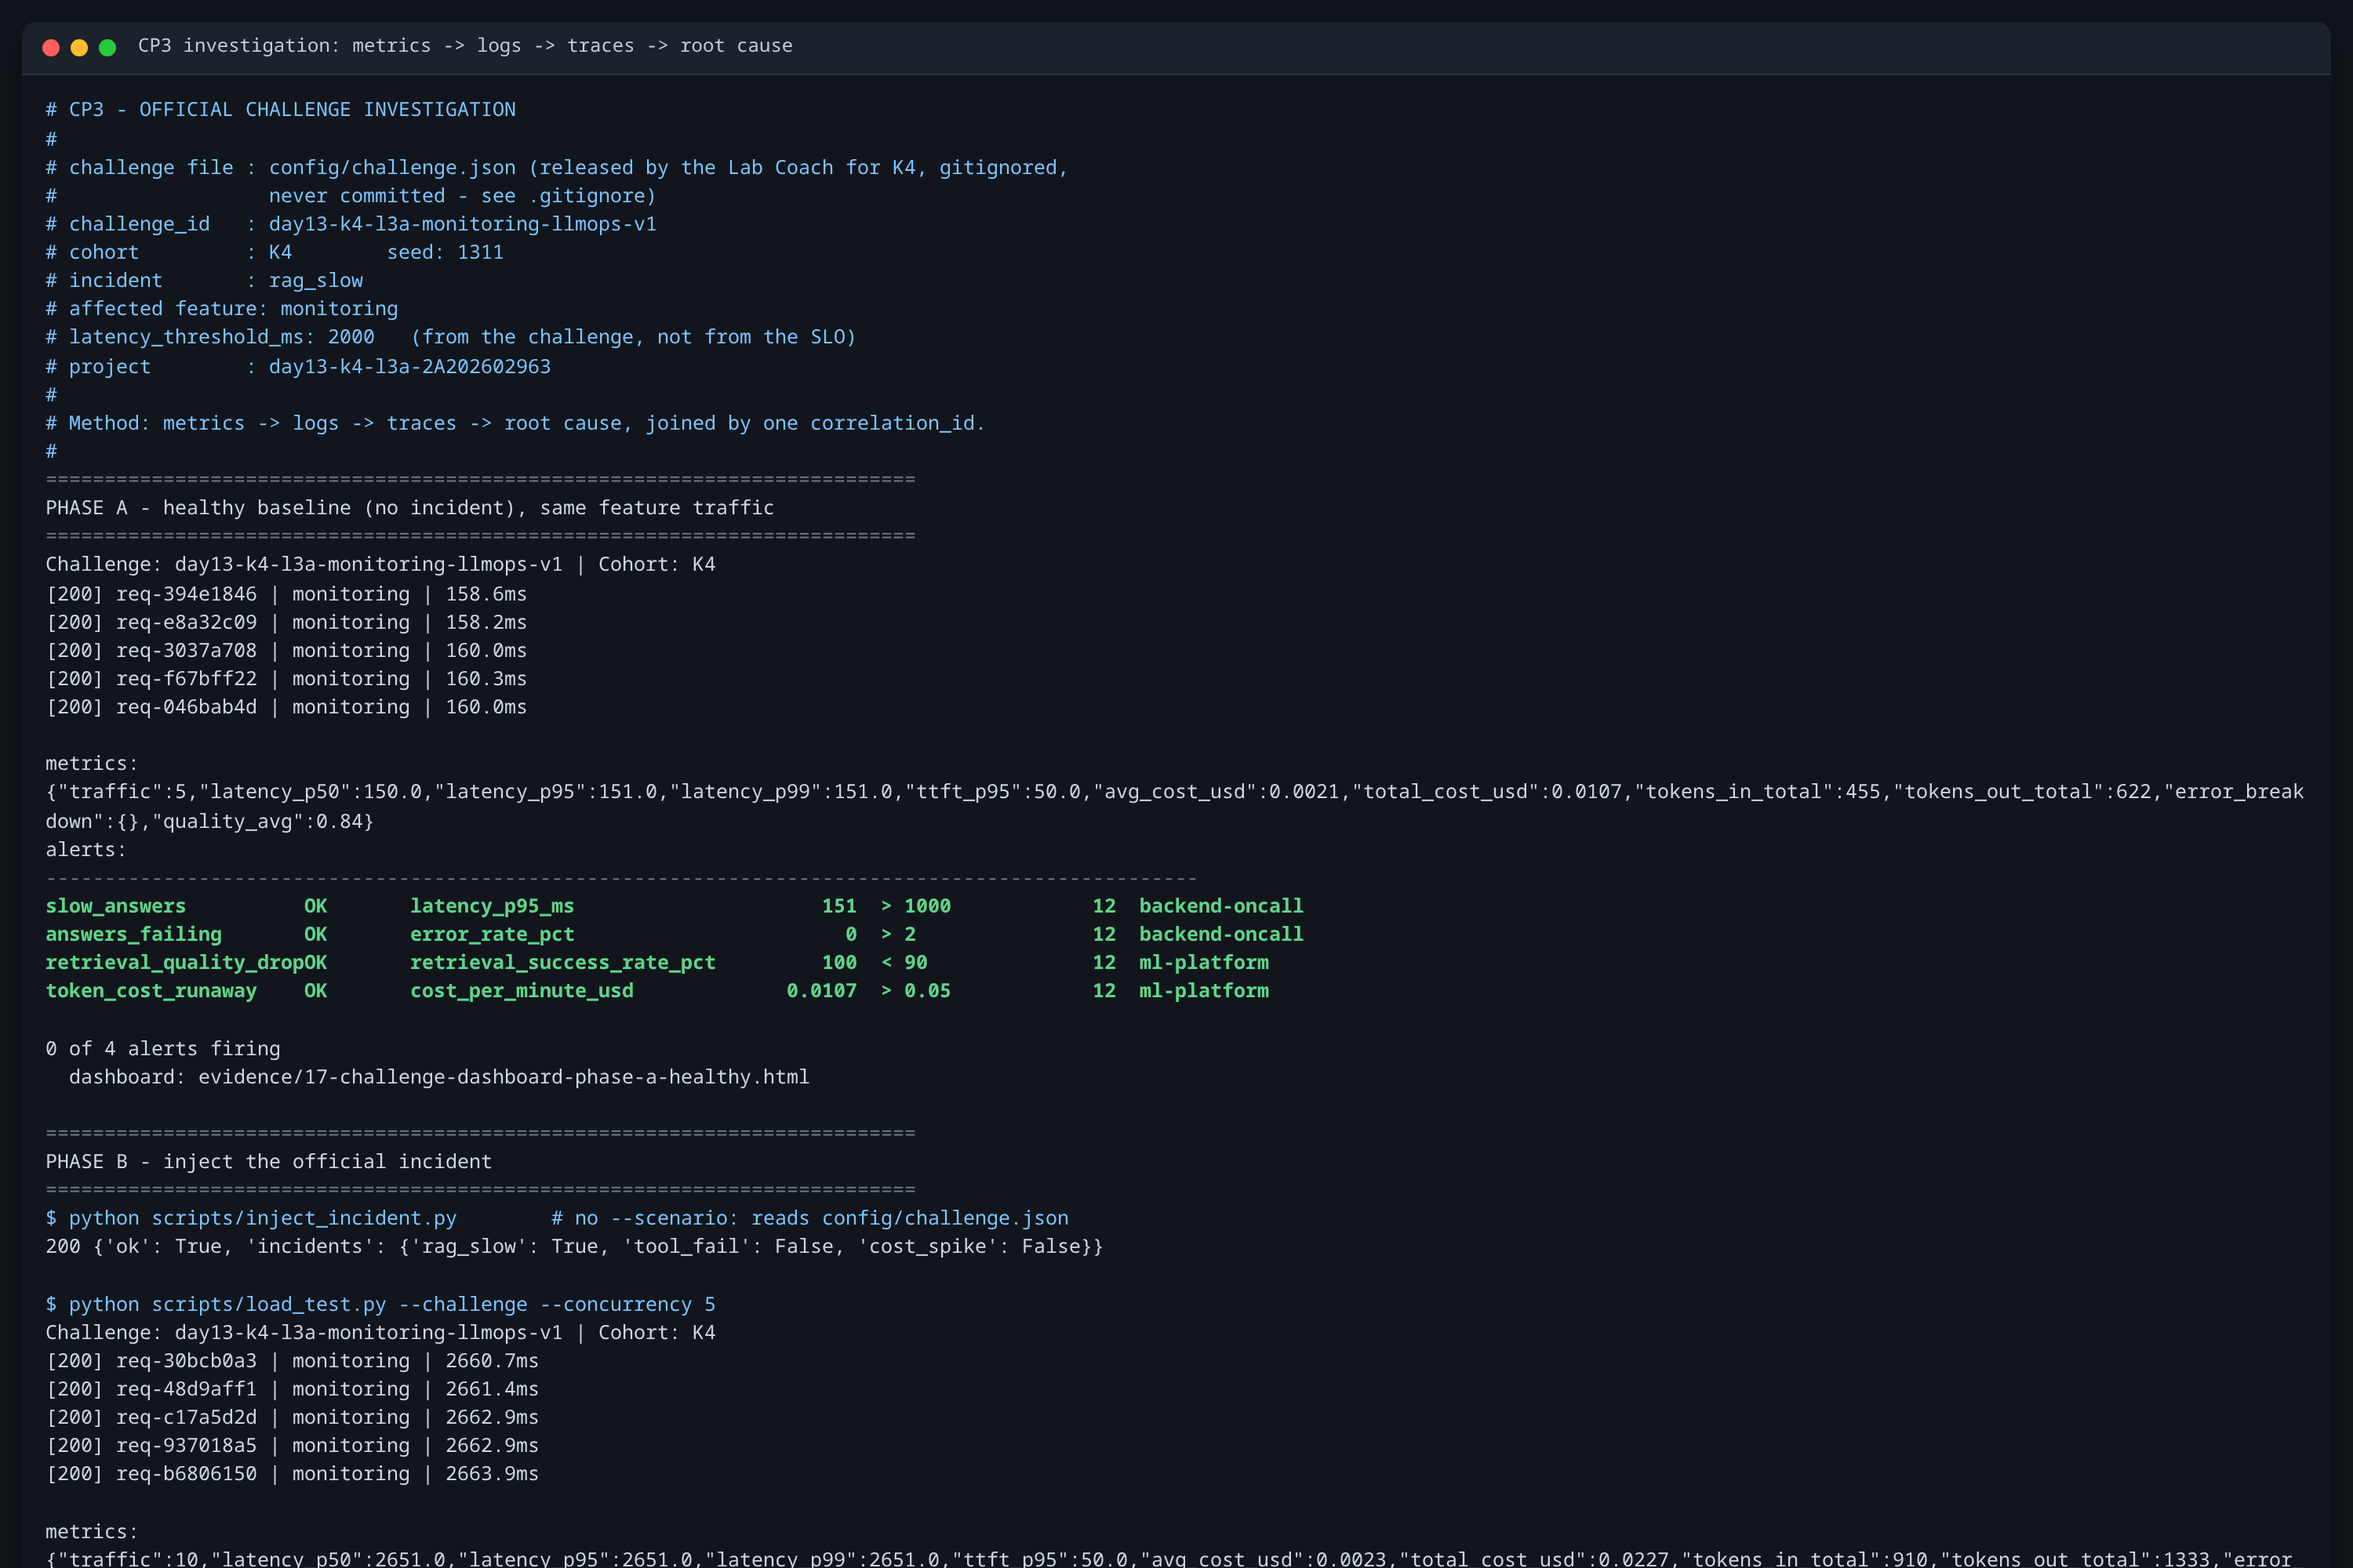
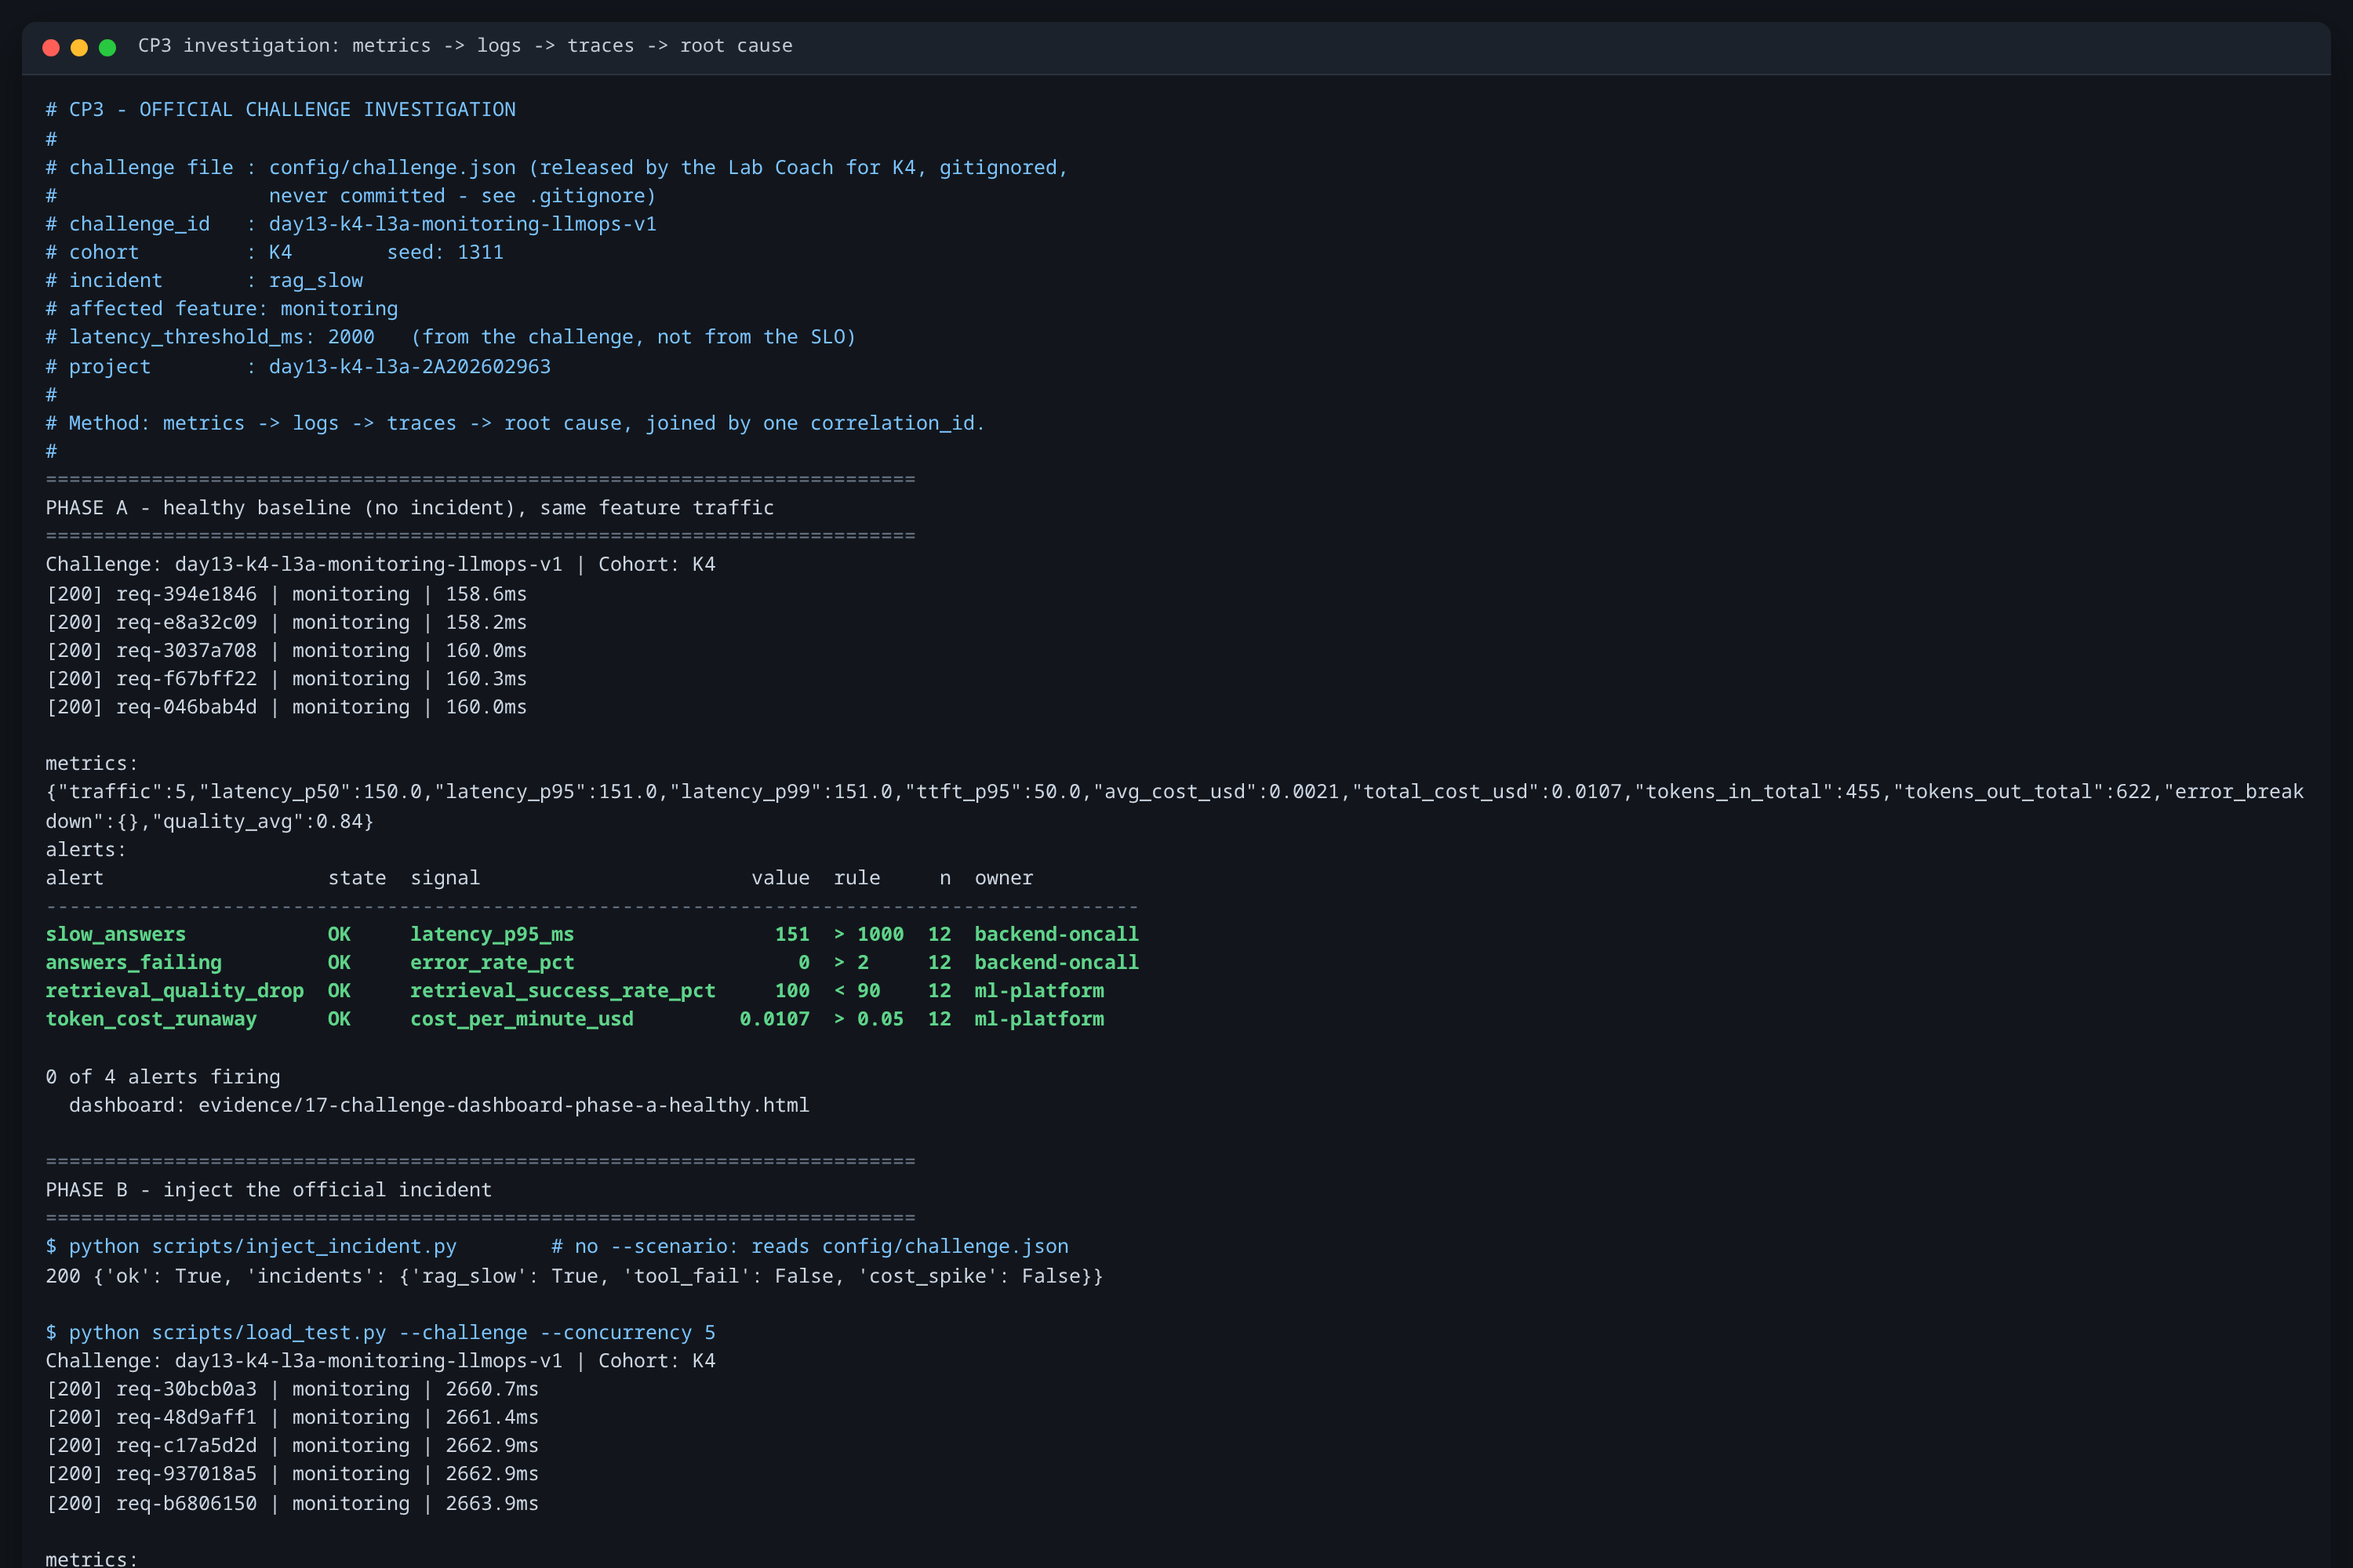
Tick the last two checklist items; fix two real bugs the final test found
README.md and REPORT.md: tick the two items the student (me) completed —
demoing the Metrics -> Logs -> Traces -> Root cause flow, and submitting the
repo URL + commit SHA to the LMS.

Bugs found by re-running the README's own step-by-step from a clean API:

- investigate.py defaulted --latency-threshold to 3000, so a bare
  `python scripts/investigate.py` used the SLO number for a challenge that
  ships its own 2000 ms threshold — the exact mix-up CP3 is built around. It
  now reads latency_threshold_ms from config/challenge.json when present,
  falls back to 3000, and prints which source it used. Verified all three
  branches (challenge default, explicit flag, missing file).

- Committed evidence 13-incident-investigation.txt still said the
  slow_answers alert fired at "p95 > 3000 ms" — the pre-recalibration number,
  contradicting config/alert_rules.yaml (> 1000). Corrected to 1000; the
  other 3000 references in the repo are the dashboard contract (3000, not
  retuned) or the narrative explaining the recalibration, both correct.

Also re-aligned 32 alert-table rows across three evidence files. When I fixed
evaluate_alerts.py's hardcoded column widths last commit, the tables already
embedded in the evidence still had the old layout, printing
"retrieval_quality_dropOK" as one word. render_table is now a function the
script and a one-off re-aligner both call, so evidence can't drift from the
formatter; the re-aligner asserts every value is byte-identical (it is).
[…]

Changed region(s): [[0.0, 0.558, 0.558, 0.961], [0.0, 0.961, 0.992, 1.0]]

diff --git a/scripts/investigate.py b/scripts/investigate.py
@@ -14,7 +14,10 @@ no credentials are configured. Steps 1 and 2 read only data/logs.jsonl.
 
 Usage:
     python scripts/investigate.py
-    python scripts/investigate.py --latency-threshold 3000 --top 3
+    python scripts/investigate.py --latency-threshold 2000 --top 3
+
+--latency-threshold defaults to latency_threshold_ms in config/challenge.json
+when that file is present, and to 3000 ms otherwise.
 """
 
 from __future__ import annotations
@@ -231,8 +234,11 @@ def main() -> int:
     configure_utf8_stdio()
     parser = argparse.ArgumentParser(description=__doc__)
     parser.add_argument("--logs", type=Path, default=REPO_ROOT / "data" / "logs.jsonl")
-    parser.add_argument("--latency-threshold", type=int, default=3000,
-                        help="ms; a request above this is treated as symptomatic")
+    parser.add_argument("--latency-threshold", type=int, default=None,
+                        help="ms; a request above this is treated as symptomatic. "
+                             "Defaults to latency_threshold_ms from config/challenge.json when "
+                             "that file is present, because the challenge ships a threshold for "
+                             "exactly this scenario; otherwise 3000.")
     parser.add_argument("--top", type=int, default=3, help="how many slow requests to trace")
     parser.add_argument("--skip-traces", action="store_true")
     parser.add_argument(
@@ -249,6 +255,21 @@ def main() -> int:
     )
     args = parser.parse_args()
 
+    # The challenge ships a latency_threshold_ms for exactly this scenario. Using
+    # the SLO number instead is the trap CP3 is built around: on a log that mixes
+    # healthy and incident traffic the p95 lands below the SLO budget and the
+    # investigation concludes "no violation" while the incident is real.
+    threshold_source = "from --latency-threshold"
+    if args.latency_threshold is None:
+        args.latency_threshold = 3000
+        threshold_source = "default 3000 ms (no challenge file)"
+        challenge = REPO_ROOT / "config" / "challenge.json"
+        if challenge.exists():
+            shipped = json.loads(challenge.read_text(encoding="utf-8")).get("latency_threshold_ms")
+            if isinstance(shipped, int):
+                args.latency_threshold = shipped
+                threshold_source = f"{shipped} ms from {challenge.name}"
+
     records = load_records(args.logs)
     if not records:
         print(f"no records in {args.logs}; start the API and run scripts/load_test.py")
@@ -257,7 +278,8 @@ def main() -> int:
     first = datetime.fromisoformat(records[0]["ts"].replace("Z", "+00:00"))
 
     print(f"log file : {args.logs}")
-    print(f"records  : {len(records)}  ({records[0]['ts']} .. {records[-1]['ts']})\n")
+    print(f"records  : {len(records)}  ({records[0]['ts']} .. {records[-1]['ts']})")
+    print(f"threshold: {threshold_source}\n")
 
     step_metrics(records)
     slow = step_logs(records, args.latency_threshold, args.top)

diff --git a/scripts/evaluate_alerts.py b/scripts/evaluate_alerts.py
@@ -93,6 +93,29 @@ def breached(value: float, operator: str, threshold: float) -> bool:
     return value > threshold if operator == ">" else value < threshold
 
 
+HEADS = ("alert", "state", "signal", "value", "rule", "n", "owner")
+ALIGNS = ("<", "<", "<", ">", "<", ">", "<")
+
+
+def render_table(cells: list[tuple[str, ...]]) -> str:
+    """Format alert rows as a fixed-width table.
+
+    Every column width is measured from the data. Hardcoded widths silently ran
+    two columns together as soon as a rule name outgrew its column, which read
+    as a single word ("retrieval_quality_dropOK"). Kept as a function so the
+    evidence files can be re-aligned with exactly the code that produced them.
+    """
+    widths = [
+        max(len(h), *(len(c[i]) for c in cells)) if cells else len(h)
+        for i, h in enumerate(HEADS)
+    ]
+    lines = ["  ".join(f"{h:{a}{w}}" for h, a, w in zip(HEADS, ALIGNS, widths)).rstrip()]
+    lines.append("-" * (sum(widths) + 2 * (len(widths) - 1)))
+    for c in cells:
+        lines.append("  ".join(f"{v:{a}{w}}" for v, a, w in zip(c, ALIGNS, widths)).rstrip())
+    return "\n".join(lines)
+
+
 def main() -> int:
     configure_utf8_stdio()
     parser = argparse.ArgumentParser(description=__doc__)
@@ -143,24 +166,13 @@ def main() -> int:
     print(f"alert rules: {args.config.relative_to(REPO_ROOT)}")
     print(f"log records in file: {len(records)}\n")
 
-    # Size every column from the data. Hardcoded widths silently ran the columns
-    # together as soon as a rule name outgrew them, which read as one word.
     cells = [
         (r["name"], r["state"], r["signal"],
          "-" if r["value"] is None else f"{r['value']:g}",
          f"{r['operator']} {r['threshold']}", str(r["samples"]), r["owner"])
         for r in results
     ]
-    heads = ("alert", "state", "signal", "value", "rule", "n", "owner")
-    aligns = ("<", "<", "<", ">", "<", ">", "<")
-    widths = [
-        max(len(h), *(len(c[i]) for c in cells)) if cells else len(h)
-        for i, h in enumerate(heads)
-    ]
-    print("  ".join(f"{h:{a}{w}}" for h, a, w in zip(heads, aligns, widths)).rstrip())
-    print("-" * (sum(widths) + 2 * (len(widths) - 1)))
-    for c in cells:
-        print("  ".join(f"{v:{a}{w}}" for v, a, w in zip(c, aligns, widths)).rstrip())
+    print(render_table(cells))
     for r in firing:
         print(f"\n  {r['name']} -> Slack {r['slack_channel']} ({r['owner']}), runbook {r['runbook']}")
         if r["error_breakdown"]:

diff --git a/submission/REPORT.md b/submission/REPORT.md
@@ -509,4 +509,4 @@ trong git object cục bộ trong một khoảng thời gian, và nguyên tắc 
       API để người chấm tự kiểm chứng lại bằng key.
 - [x] **Key đã rotate** và key cũ đã trả 401; toàn bộ evidence được tạo lại bằng key mới.
 - [x] **Không có ảnh chụp trang API Keys** — không mở `/settings/api-keys` ở bất kỳ ảnh nào.
-- [ ] **Việc còn lại của tôi:** nộp URL repo + commit SHA ở mục 1 lên LMS/Codelabs.
+- [x] **Việc còn lại của tôi:** nộp URL repo + commit SHA ở mục 1 lên LMS/Codelabs.

diff --git a/README.md b/README.md
@@ -153,7 +153,7 @@ git log -1 --oneline
 
 - [x] Không có `.env`, secret, `.venv/`, PII thô hoặc evidence của học viên/lớp khác.
 - [x] `submission/REPORT.md` đã đủ; mọi ảnh dùng đường dẫn tương đối và mở được.
-- [ ] Bạn demo và giải thích được luồng Metrics → Logs → Traces → Root cause.
+- [x] Bạn demo và giải thích được luồng Metrics → Logs → Traces → Root cause.
 
 ## Tên repo bài nộp
 
